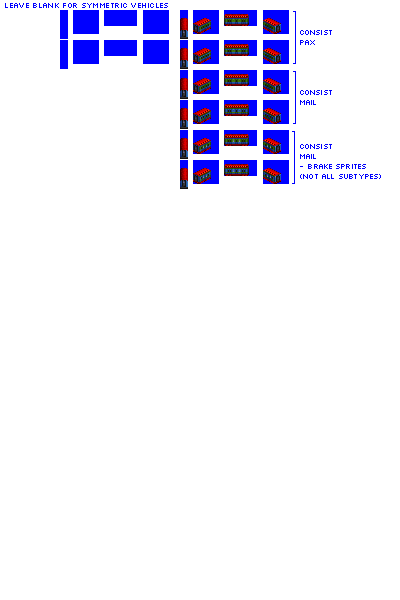
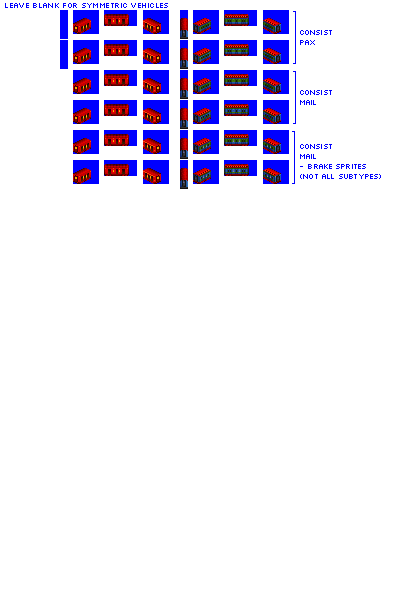
Change: sprites complete for gen 1B and 2B mail cars

Changed region(s): [[0.18, 0.0, 0.42, 0.33]]

diff --git a/src/vehicles/mail_cars.py b/src/vehicles/mail_cars.py
@@ -29,7 +29,8 @@ def main():
     consist = MailCarConsist(roster='pony',
                              base_numeric_id=2220,
                              gen=1,
-                             subtype='B')
+                             subtype='B',
+                             sprites_complete=True)
 
     consist.add_unit(type=PaxMailCar,
                      capacity=12,
@@ -49,7 +50,8 @@ def main():
     consist = MailCarConsist(roster='pony',
                              base_numeric_id=920,
                              gen=2,
-                             subtype='B')
+                             subtype='B',
+                             sprites_complete=True)
 
     consist.add_unit(type=PaxMailCar,
                      capacity=12,
